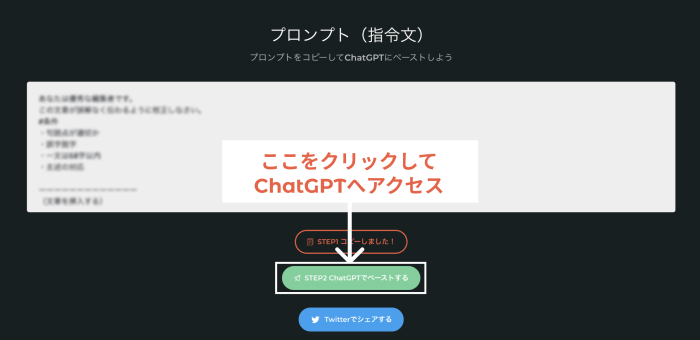
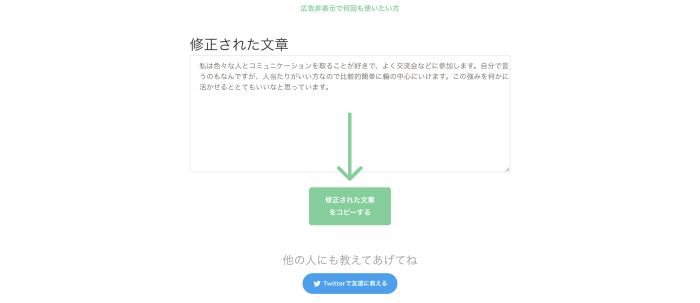
tutorial changed

diff --git a/src/app/statics/tutorial/tutorial.component.html b/src/app/statics/tutorial/tutorial.component.html
@@ -8,10 +8,10 @@
           <small>ステップ 1</small><br />
           気になる文章を入力する
         </h2>
-        <p>修正してほしい文章に入力します。</p>
+        <p>気になる文章を「修正してほしい文章」に入力します。</p>
         <div class="card card-plain">
           <div class="card-img-top">
-            <img class="img" src="./assets/img/tutorial/step2.jpg" />
+            <img class="img" src="./assets/img/tutorial/step1.jpg" />
           </div>
         </div>
       </div>
@@ -21,8 +21,22 @@
           修正する
         </h2>
         <p>
-          「修正スタート」を押して１分以内に修正された文章が出来上がります。
+          「修正スタート」を押すと１分以内に修正された文章が出来上がります。
         </p>
+        <br />
+
+        <div class="card card-plain">
+          <div class="card-img-top">
+            <img class="img" src="./assets/img/tutorial/step2.jpg" />
+          </div>
+        </div>
+      </div>
+      <div class="col-md-8 ml-auto mr-auto">
+        <h2>
+          <small>ステップ 3</small><br />
+          ボタンを押してコピーする
+        </h2>
+        <p>「修正された文章を押してコピーする」を押してコピーします。</p>
         <br />
 
         <div class="card card-plain">
